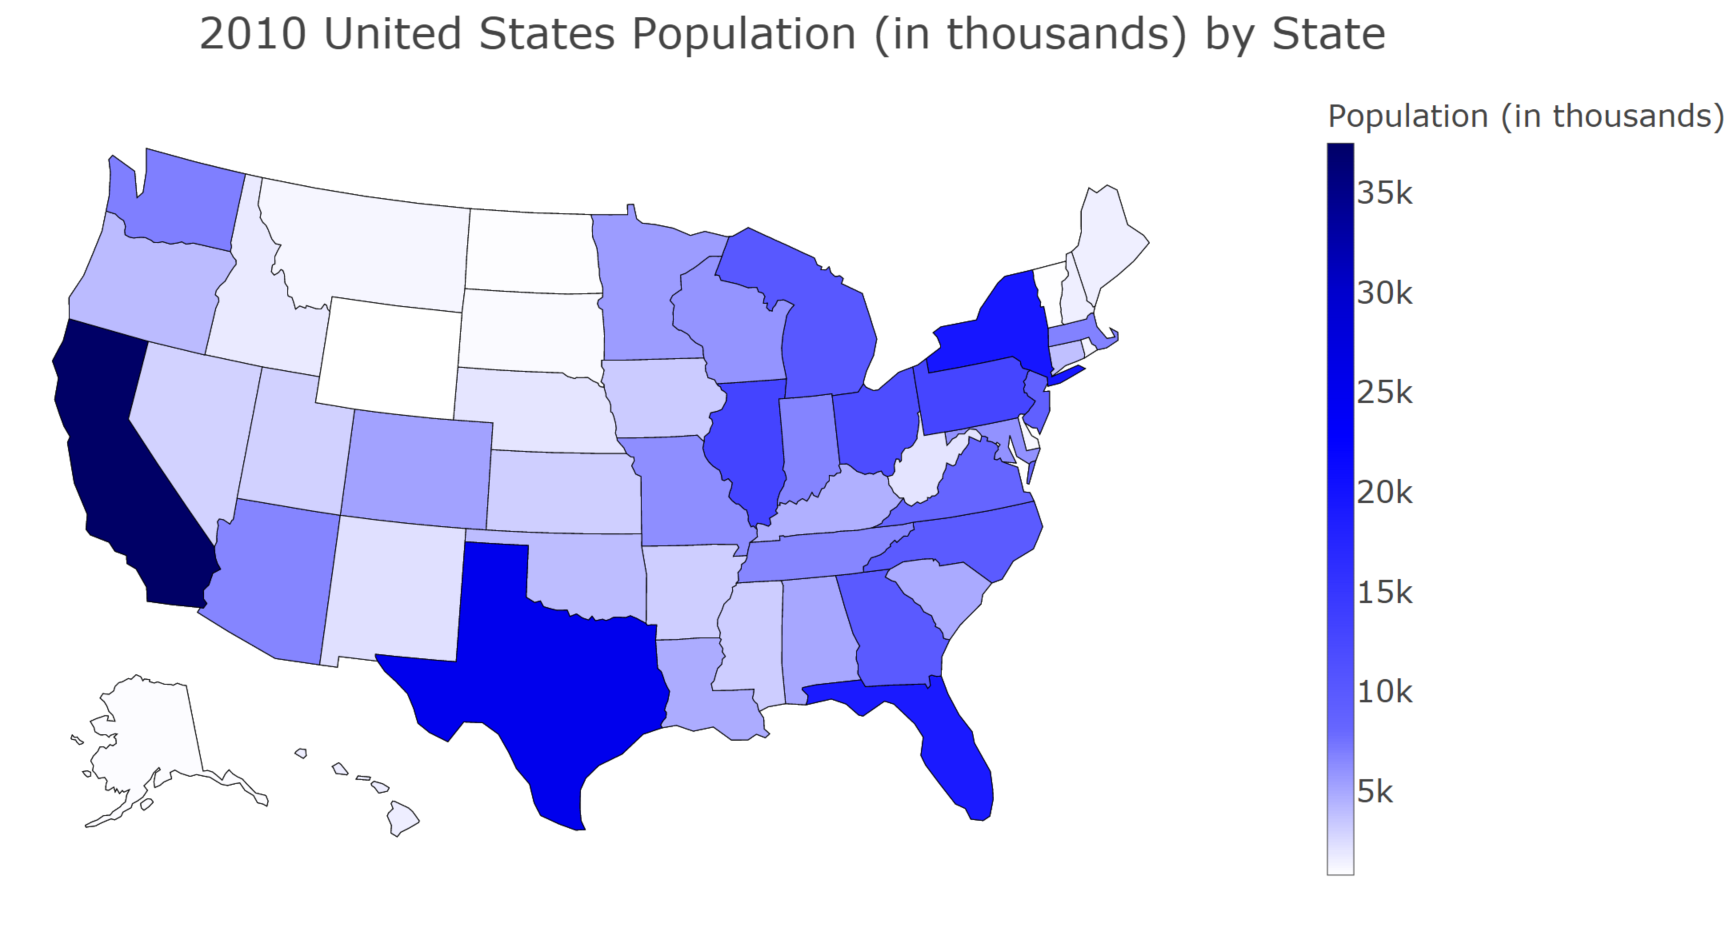
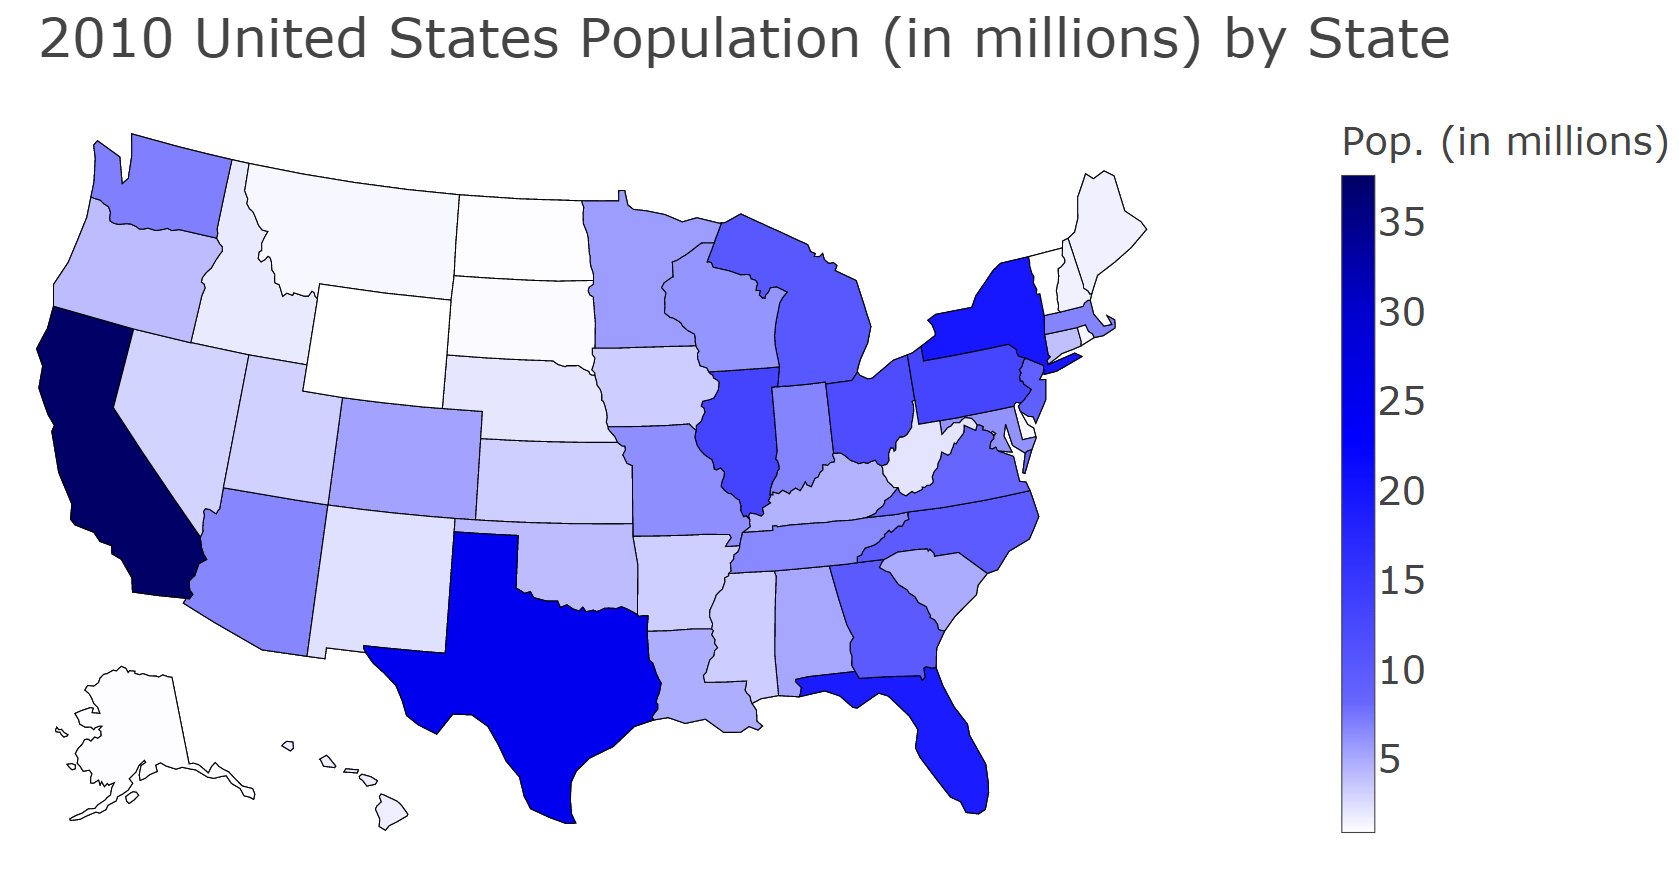
modify choropleth
change population scale from thousands to millions. add new image

diff --git a/choropleth.py b/choropleth.py
@@ -20,8 +20,8 @@ census_subset = census_data[['Name', '2010']]
 # Remove aggregate 'United States' population row.
 census_subset = census_subset[census_subset['Name'] != 'United States']
 
-# Divide '2010' population value by 1000 for easier graph viewing.
-census_subset['2010'] = census_subset['2010'] / 1000
+# Divide '2010' population value by 1000000 for easier graph viewing.
+census_subset['2010'] = census_subset['2010'] / 1000000
 
 # Add state abbreviations. This is necessary for plotting.
 census_subset['abbreviations'] = ['AL', 'AK', 'AZ', 'AR', 'CA', 'CO', 'CT', 'DE', 'DC', 'FL', 'GA', 'HI', 'ID', 'IL', 'IN', 'IA', 'KS', 'KY', 'LA',
@@ -46,11 +46,11 @@ choropleth = [dict(
                             z = census_subset['2010'].round(1),
                             locationmode = 'USA-states',
               colorbar = dict(
-                                  title = 'Population (in thousands)'))]
+                                  title = 'Pop. (in millions)'))]
 
 # Create layout.
 layout = dict(
-                    title = '2010 United States Population (in thousands) by State',
+                    title = '2010 United States Population (in millions) by State',
                     geo = dict(
                                     scope = 'usa',
                                     showlakes = False),
